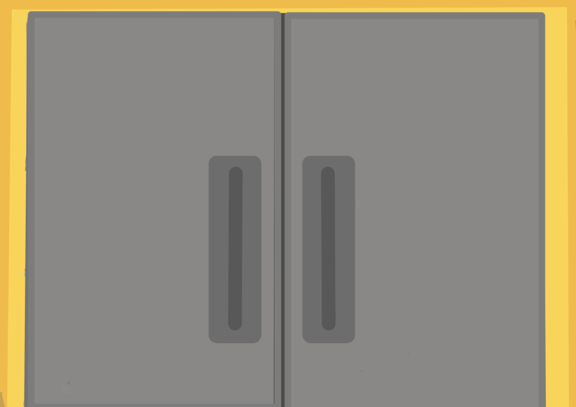
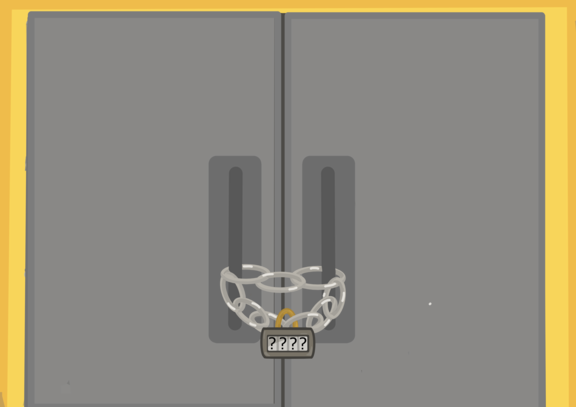
Aggiunta

Changed region(s): [[0.375, 0.6486, 0.625, 0.8845]]

diff --git a/webapp/src/Classe5C.css b/webapp/src/Classe5C.css
@@ -74,7 +74,7 @@
 #registro{
     width: 576px;
     height: 407px;
-    background-color: black;
+   background-image: url("img/schermate/registro.png");
 }
 
 .icona{
